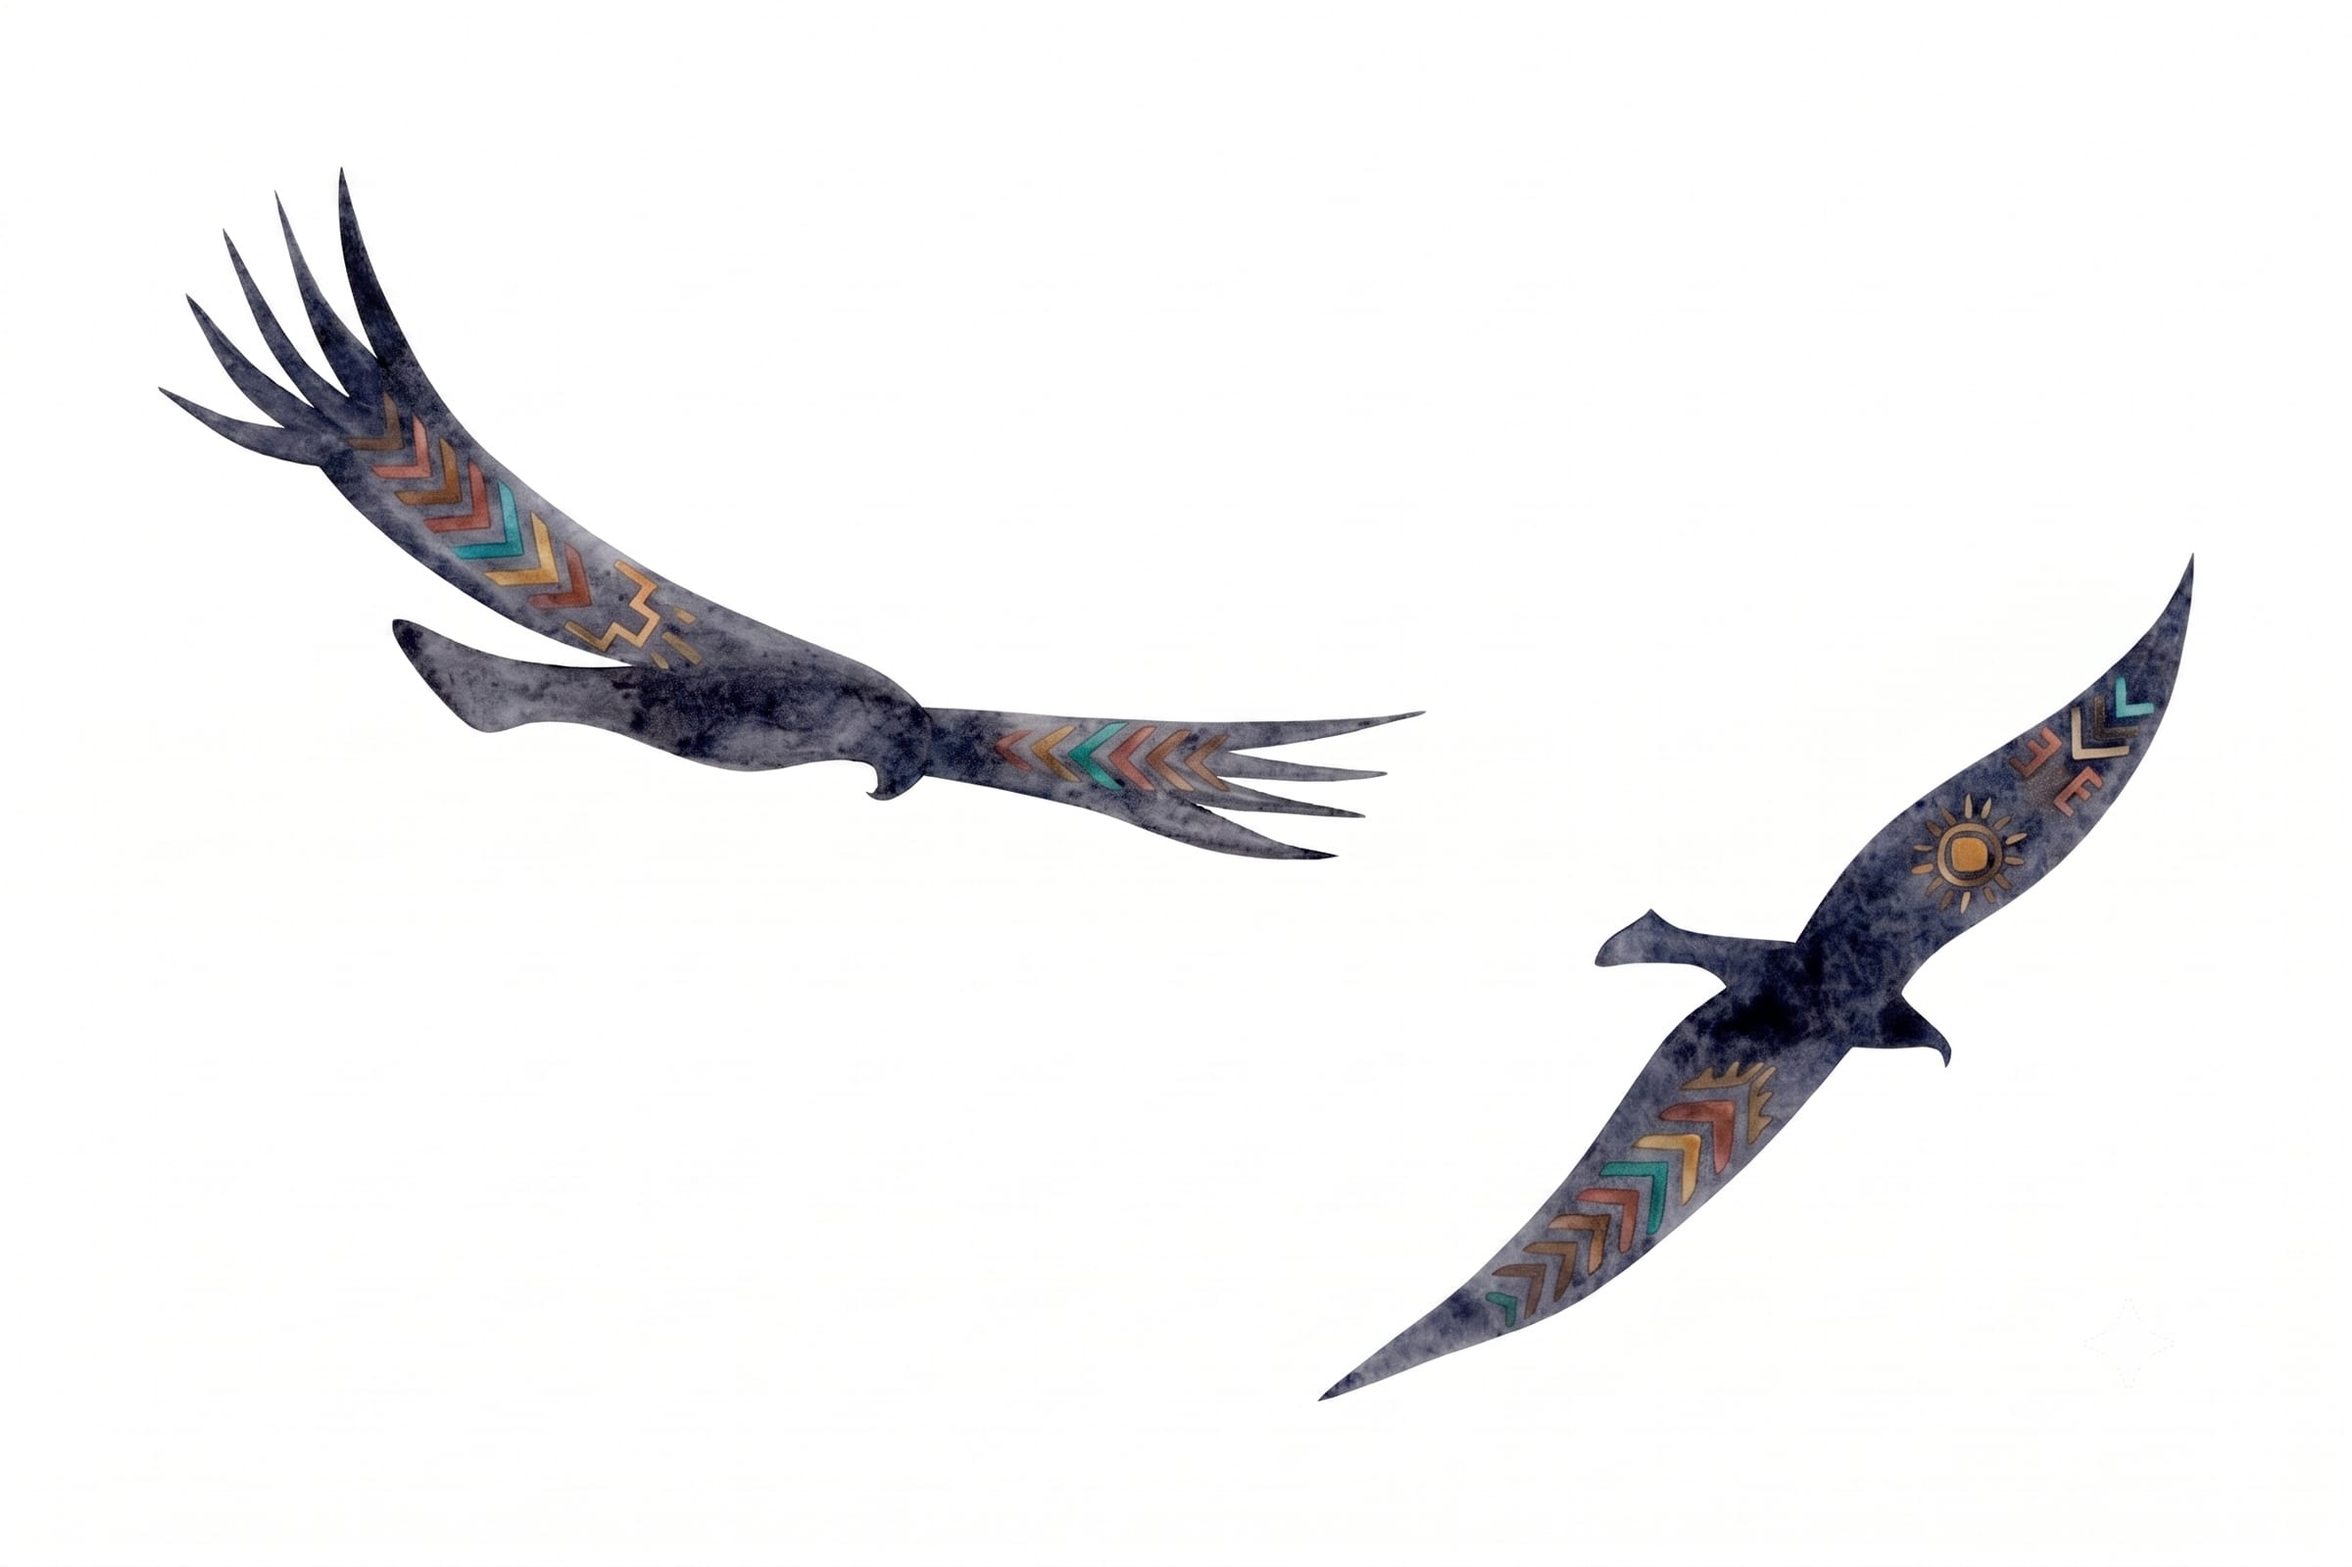
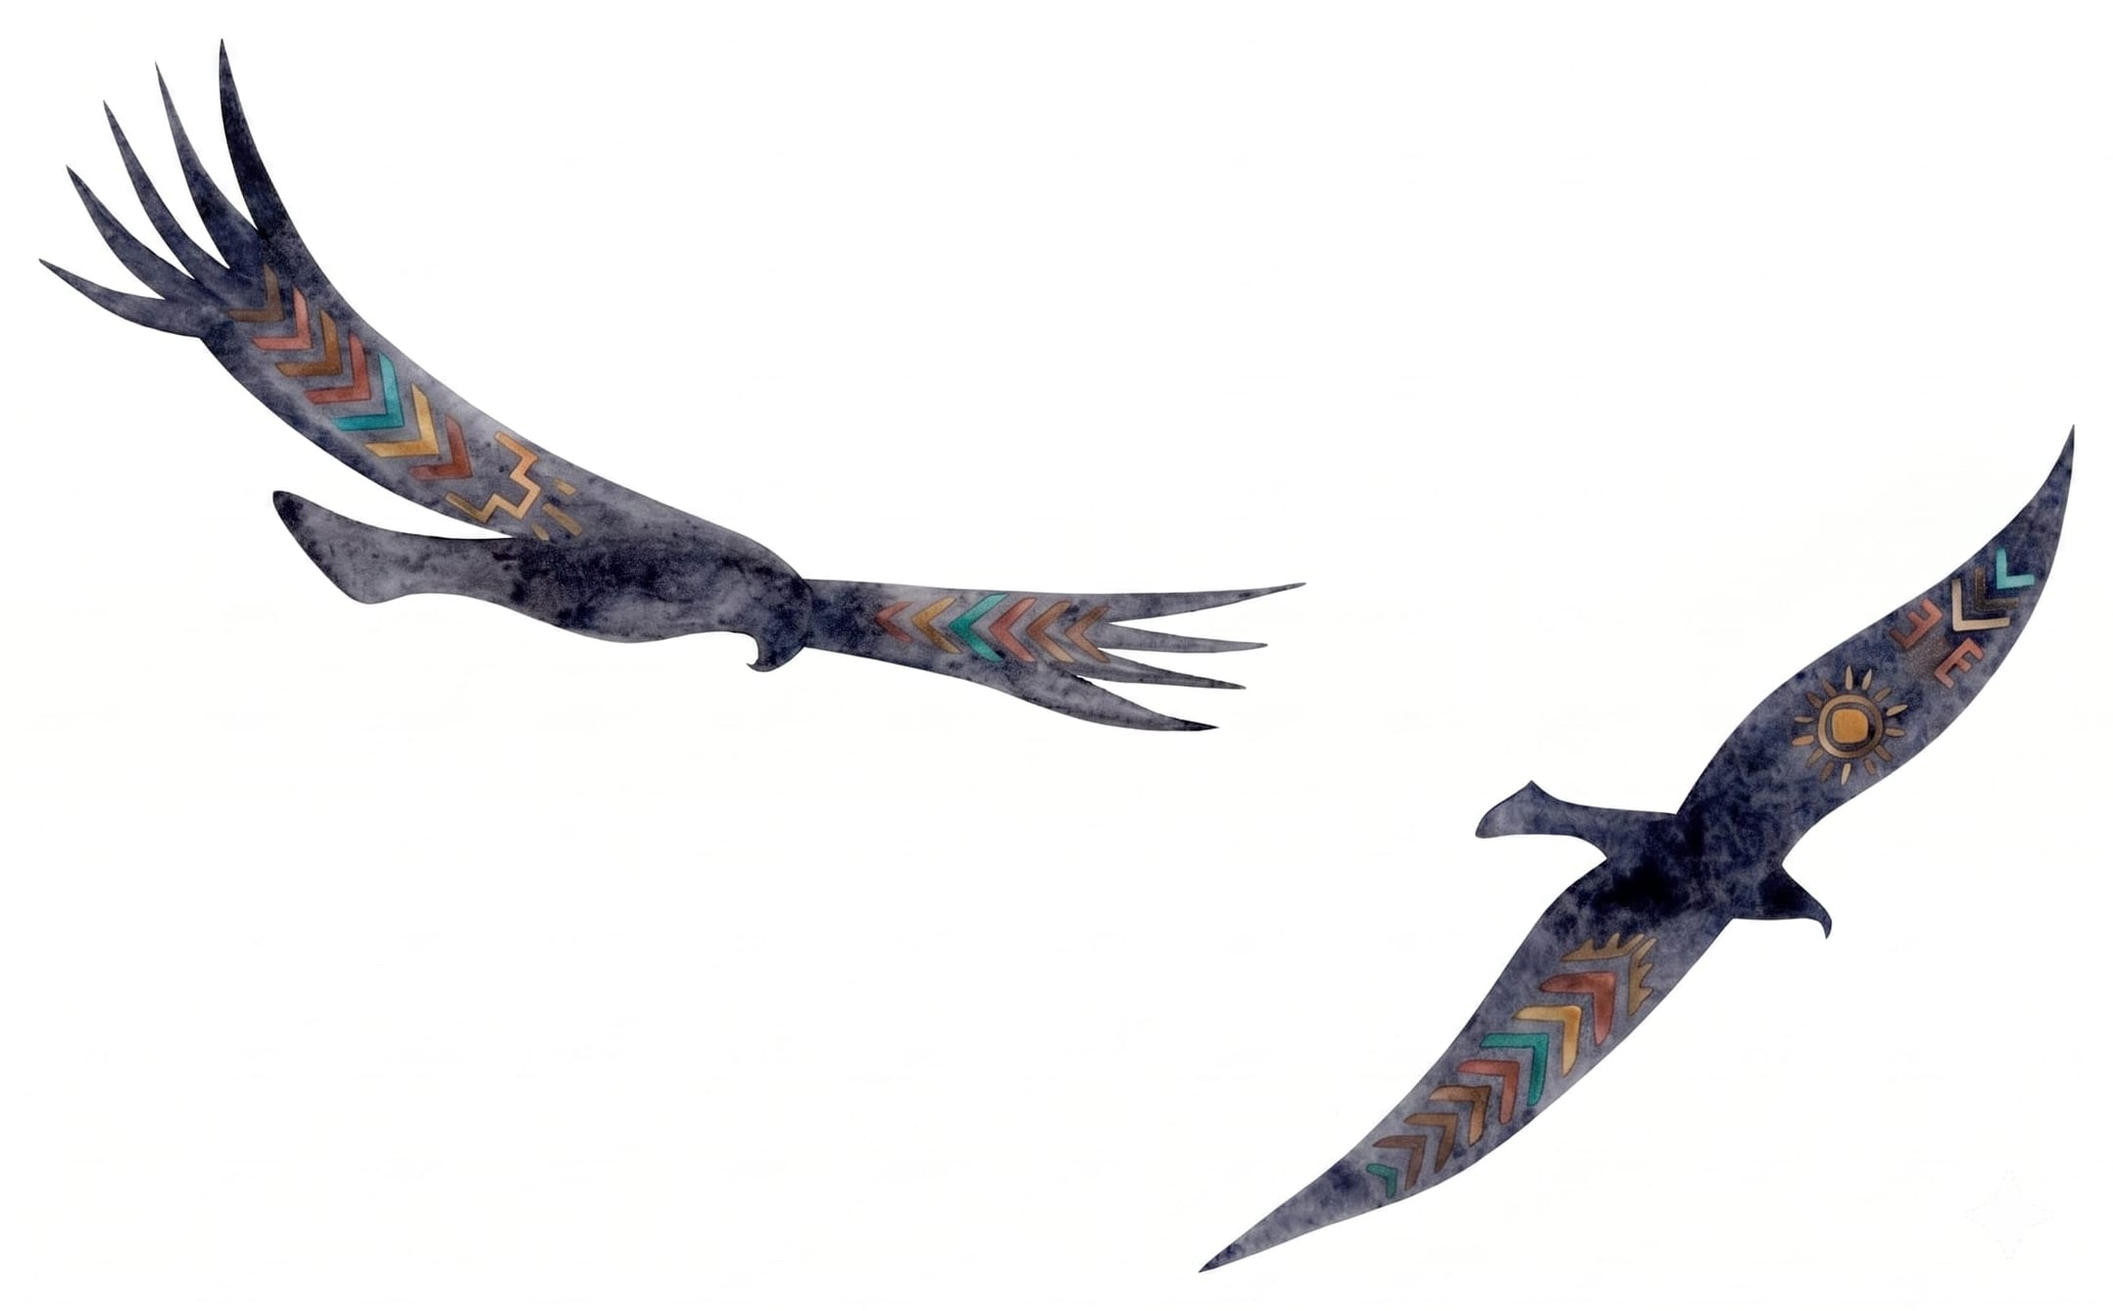
Hero facts evenly spaced; larger birds in Our Story
- Hero facts: 2x2 grid below lg; from lg a single row with equal gaps
  (labels no longer wrap unevenly).
- Our Story: heading moved into the left column so the birds start level
  with it; artwork cropped tight to the birds and, from lg, allowed to run
  slightly past its column so it fills the space.

Claude-Session: https://claude.ai/code/session_01Xmvvxip78GFSCZC7ZG8DU6

Changed region(s): [[0.0311, 0.0306, 0.6215, 0.5822], [0.5594, 0.3371, 0.9944, 0.9499], [0.5594, 0.9499, 0.5904, 0.9806]]

diff --git a/components/sections/Story.tsx b/components/sections/Story.tsx
@@ -5,19 +5,31 @@ import { ImageSlot } from "@/components/ui/ImageSlot";
 
 export function Story() {
   return (
-    <Section id={story.id} tone="white" eyebrow={story.eyebrow} heading={story.heading}>
+    <Section id={story.id} tone="white" labelledBy={`${story.id}-heading`}>
+      {/* The heading sits in the left column so the birds can start level with it and fill the right column. */}
       <div className="grid gap-10 md:grid-cols-12 md:gap-10 lg:gap-16">
-        <Reveal className="space-y-5 text-ink-muted md:col-span-7">
-          {story.paragraphs.map((p, i) => (
-            <p key={i} className={i === story.paragraphs.length - 1 ? "type-lead text-black" : "type-lead"}>
-              {p}
-            </p>
-          ))}
+        <Reveal className="md:col-span-7">
+          <p className="type-label mb-4 text-red">{story.eyebrow}</p>
+          <h2 id={`${story.id}-heading`} className="type-h2 text-balance">
+            {story.heading}
+          </h2>
+          <div className="mt-(--section-head-gap) space-y-5 text-ink-muted">
+            {story.paragraphs.map((p, i) => (
+              <p key={i} className={i === story.paragraphs.length - 1 ? "type-lead text-black" : "type-lead"}>
+                {p}
+              </p>
+            ))}
+          </div>
         </Reveal>
 
-        <Reveal className="md:col-span-5" delay={100}>
-          <ImageSlot image={story.image} sizes="(min-width: 1024px) 40vw, 100vw" className="aspect-[4/3] w-full" />
-          <figure className="mt-8 border-l-2 border-yellow pl-5">
+        <Reveal className="md:col-span-5 md:self-center" delay={100}>
+          {/* The artwork is cropped tight to the birds; from lg it runs slightly past its column (white ground). */}
+          <ImageSlot
+            image={story.image}
+            sizes="(min-width: 1536px) 700px, (min-width: 768px) 50vw, 100vw"
+            className="aspect-[2156/1338] w-full lg:-ml-[8%] lg:w-[116%]"
+          />
+          <figure className="mt-10 border-l-2 border-yellow pl-5">
             <figcaption className="type-label mb-2 text-red">{story.vision.label}</figcaption>
             <blockquote className="font-heading text-xl font-bold leading-snug">{story.vision.text}</blockquote>
           </figure>

diff --git a/components/sections/Hero.tsx b/components/sections/Hero.tsx
@@ -33,10 +33,11 @@ export function Hero() {
           </div>
         </div>
 
-        <dl className="mt-[clamp(3rem,2rem+4vw,5rem)] grid grid-cols-2 gap-x-6 gap-y-8 border-t border-white/25 pt-8 md:grid-cols-4">
+        {/* Facts: 2×2 grid below lg; from lg one row with equal gaps between the four items. */}
+        <dl className="mt-[clamp(3rem,2rem+4vw,5rem)] grid grid-cols-2 gap-x-6 gap-y-8 border-t border-white/25 pt-8 lg:flex lg:justify-between lg:gap-8">
           {hero.facts.map((fact) => (
             <div key={fact.label} className="flex flex-col">
-              <dt className="type-label order-2 mt-1 text-white/80">{fact.label}</dt>
+              <dt className="type-label order-2 mt-1 text-white/80 lg:whitespace-nowrap">{fact.label}</dt>
               <dd className="order-1 font-heading text-2xl font-bold md:text-[1.75rem]">{fact.value}</dd>
             </div>
           ))}

diff --git a/components/ui/Section.tsx b/components/ui/Section.tsx
@@ -38,6 +38,8 @@ type SectionProps = {
   className?: string;
   /** Extra decorative layer rendered behind the content (e.g. linework). */
   decoration?: ReactNode;
+  /** Id of a heading the section renders itself (when `heading` is not passed). */
+  labelledBy?: string;
 };
 
 export function Section({
@@ -49,12 +51,13 @@ export function Section({
   children,
   className = "",
   decoration,
+  labelledBy,
 }: SectionProps) {
   const headingId = id ? `${id}-heading` : undefined;
   return (
     <section
       id={id}
-      aria-labelledby={heading ? headingId : undefined}
+      aria-labelledby={heading ? headingId : labelledBy}
       className={`relative overflow-hidden py-(--section-y) ${toneClasses[tone]} ${className}`}
     >
       {decoration}

diff --git a/docs/brand-tokens.md b/docs/brand-tokens.md
@@ -53,7 +53,7 @@ The creative director supplied these images (Sept 2026). Originals are kept in `
 | File | Where it's used | Treatment |
 | --- | --- | --- |
 | `hero-turtle.jpg` | Hero | Photo on top on phones; right-hand ~56% panel from 1024px. Zoomed from the top (1.35× phones, 1.2× at lg, 1.4× from xl) so the turtle reads larger while the treeline stays in frame; fades into navy. From 1024px it is shifted down (top fade) so the turtle sits level with the headline. From 1536px the panel width follows the page container and the zoom is removed, so the turtle stays in proportion on wide screens. |
-| `birds-watercolour.jpg` | Our Story | `object-contain`, never cropped; its white ground blends into the section. |
+| `birds-watercolour.jpg` | Our Story | Cropped tight to the birds (2156×1338). `object-contain`; starts level with the heading and from 1024px runs slightly past its column; the white ground blends into the section. |
 | `water-to-hydrogen.jpg` (deck cover) | Our Path section background | Full-bleed behind the section; washed to white towards the copy (left) and the stepper (bottom), most visible top-right. |
 | `waves.jpg` | "Powered by BC's clean grid" callout | Navy overlay: vertical on phones, horizontal from md, for text contrast. |
 | `feathers-dark.jpg` | Key Differentiators background | 80% opacity under a black gradient. |
